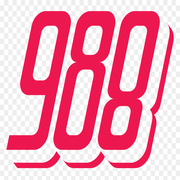
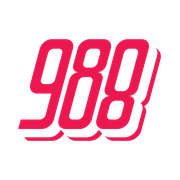
Add files via upload

diff --git a/sw.js b/sw.js
@@ -1,0 +1,9 @@
+const CACHE='988-fm-github-final-v4';
+self.addEventListener('install', e => self.skipWaiting());
+self.addEventListener('activate', e => e.waitUntil(caches.keys().then(keys=>Promise.all(keys.map(k=>k===CACHE?null:caches.delete(k)))).then(()=>self.clients.claim())));
+self.addEventListener('fetch', e => {
+  if (e.request.method !== 'GET') return;
+  e.respondWith(fetch(e.request).then(r => {
+    const copy=r.clone(); caches.open(CACHE).then(c=>c.put(e.request,copy)); return r;
+  }).catch(()=>caches.match(e.request)));
+});

diff --git a/index.html b/index.html
@@ -27,7 +27,7 @@ button{border:0;border-radius:999px;font-size:22px;font-weight:700;padding:18px 
 </head>
 <body>
 <main>
-  <div class="logo-wrap"><img class="logo" src="988-logo-original.png" alt="988 FM"></div>
+  <div class="logo-wrap"><img class="logo" src="988-logo-transparent.png" alt="988 FM"></div>
   <div class="live"><span class="dot"></span>LIVE · Malaysia Radio</div>
   <button id="play">▶ PLAY 988</button>
   <div id="status">Ready</div>

diff --git a/README.md b/README.md
@@ -1,14 +1,17 @@
 # 988 FM
 
-988 FM live-radio web app.
+988 FM Malaysia live-radio web app/PWA.
 
-This version uses the transparent 988 logo with NO white panel behind it.
+## GitHub Pages
+Upload **all files in this package** to the ROOT of your `988-fm` repository and replace the existing files.
 
-Upload/replace all files in this package in the ROOT of the `988-fm` GitHub repository.
+This version:
+- uses a transparent 988 logo (no white/checkerboard background);
+- contains no Tesla wording;
+- keeps PWA home-screen support;
+- attempts automatic playback.
 
-After GitHub Pages updates, refresh the page. If the old white logo is still cached, clear the browser cache or open the page once in an incognito tab.
+If the old page is still cached after deployment, refresh the page or open it once in an incognito/private tab.
 
-The page attempts autoplay; if Android/ColorOS blocks autoplay, press PLAY 988.
-
-Current stream:
+Stream:
 https://28103.live.streamtheworld.com/988_FMAAC.aac
